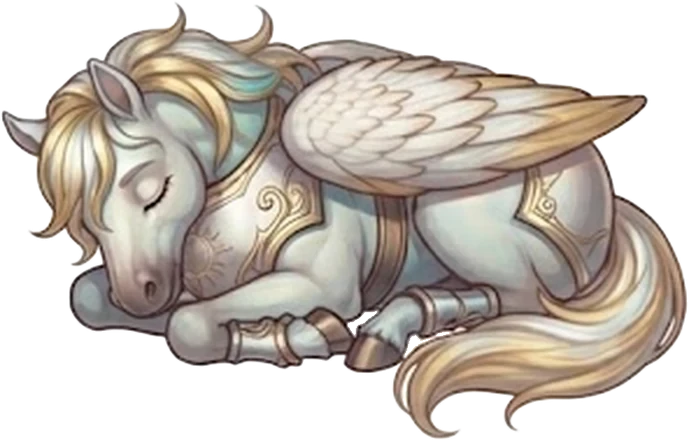
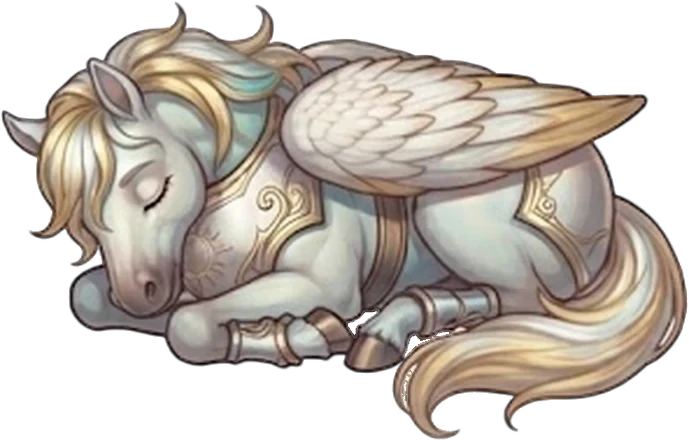
Compagnons couchés : liseré blanc retiré autour du corps et des trous
Claude-Session: https://claude.ai/code/session_014VBvzn7cPipHkoepy8RC9p

diff --git a/index.html b/index.html
@@ -6226,7 +6226,7 @@ function compSrc(k) {
 }
 function compArt(k, cls = '') {
   const sl = k.st >= 0 && k.mood === 'sleep' && COMP[k.sp] && (COMP_SL[k.sp] || [])[Math.min(k.st, 2)];
-  if (sl) { const src = `comp/${COMP[k.sp].f}${Math.min(k.st, 2)}s.webp?v=2`; // v= : à augmenter quand on remplace ces images (sinon l'ancienne reste en cache) // au repos le compagnon dort couché : image dédiée, respiration lente, « z » au-dessus de sa tête
+  if (sl) { const src = `comp/${COMP[k.sp].f}${Math.min(k.st, 2)}s.webp?v=3`; // v= : à augmenter quand on remplace ces images (sinon l'ancienne reste en cache) // au repos le compagnon dort couché : image dédiée, respiration lente, « z » au-dessus de sa tête
     return `<div class="cpw ${cls} slp m-sleep${k.st === 3 ? ' gold' : ''}" style="--cpm:url(${src})"><span class="cpsq" style="width:${Math.min(100, sl[0] / sl[1] * 100).toFixed(1)}%;aspect-ratio:${sl[0]}/${sl[1]};--zx:${sl[2]}%;--zy:${sl[3]}%"><img src="${src}" onerror="this.onerror=null;this.src='${k.img}'" alt="${esc(k.name)}" loading="lazy"><i class="cpfx">z</i><i class="cpfx b">z</i></span></div>`; }
   const own = k.st >= 0 && (COMP_MOODV[k.img.slice(5, -5)] || []).includes(k.mood), D = COMP[k.sp], pc = k.st >= 0 && D && D.pup && D.pup[Math.min(k.st, 2)];
   if (pc && !compStill() && pupOk()) return `<div class="cpw ${cls} pup m-${k.mood}${k.st === 3 ? ' gold' : ''}" style="--cpm:url(${k.img})"><rl-pup src="${k.img}" mood="${k.mood}" cfg='${JSON.stringify(pc)}'></rl-pup><i class="cpfx">${k.mood === 'sleep' ? 'z' : k.mood === 'sad' ? '💧' : '✦'}</i><i class="cpfx b">${k.mood === 'sleep' ? 'z' : '✦'}</i></div>`;
@@ -7442,7 +7442,7 @@ function doImport() {
 
 
 /* ===================== Nouveautés (à mettre à jour à chaque version) ===================== */
-const APP_VERSION = '9.126.1'; // ⚠ Mettre aussi le même numéro dans version.json (sinon pas de mise à jour automatique)
+const APP_VERSION = '9.126.2'; // ⚠ Mettre aussi le même numéro dans version.json (sinon pas de mise à jour automatique)
 /* Notes de mise à jour : UNE seule entrée par jour. Si une entrée existe déjà pour aujourd'hui, mets-la à jour (v = dernière version, ajoute/réécris les puces) au lieu d'en ajouter une nouvelle. */
 const CHANGELOG = [
   {v: '9.126.0', d: '2026-11-24', fr: ['Nouveau : les compagnons arrivent. À ton premier niveau 5, ton œuf éclot et tu choisis ton compagnon parmi 10 créatures. Il grandit avec votre lien (cœurs gagnés en t\'entraînant, en battant des records, en finissant tes quêtes), prend 4 formes et dort couché quand tu te reposes. Il ne perd jamais rien si tu t\'absentes.'], en: ['New: companions are here. At your first level 5 your egg hatches and you choose your companion among 10 creatures. It grows with your bond (hearts earned by training, beating records, finishing quests), takes 4 forms and sleeps lying down when you rest. It never loses anything if you take a break.']},
